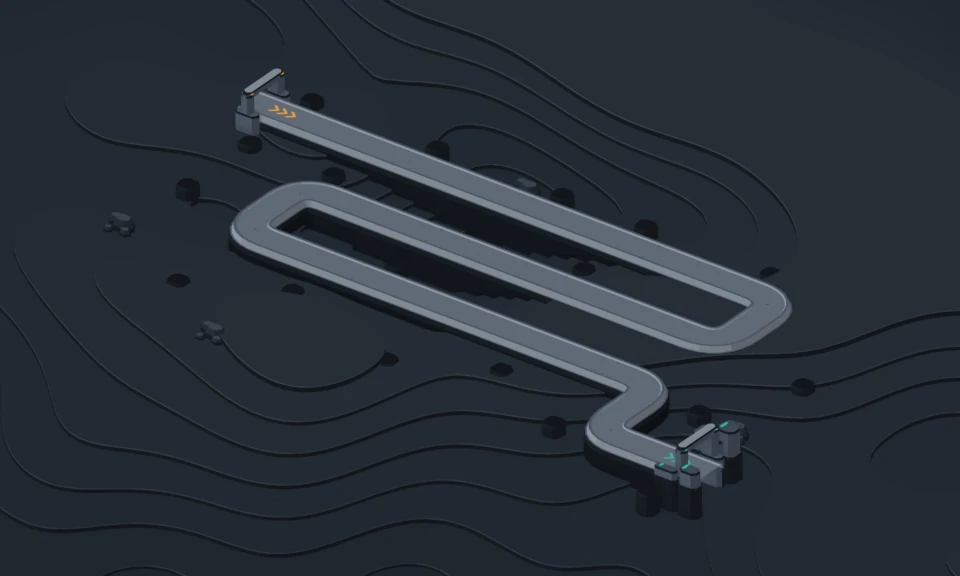
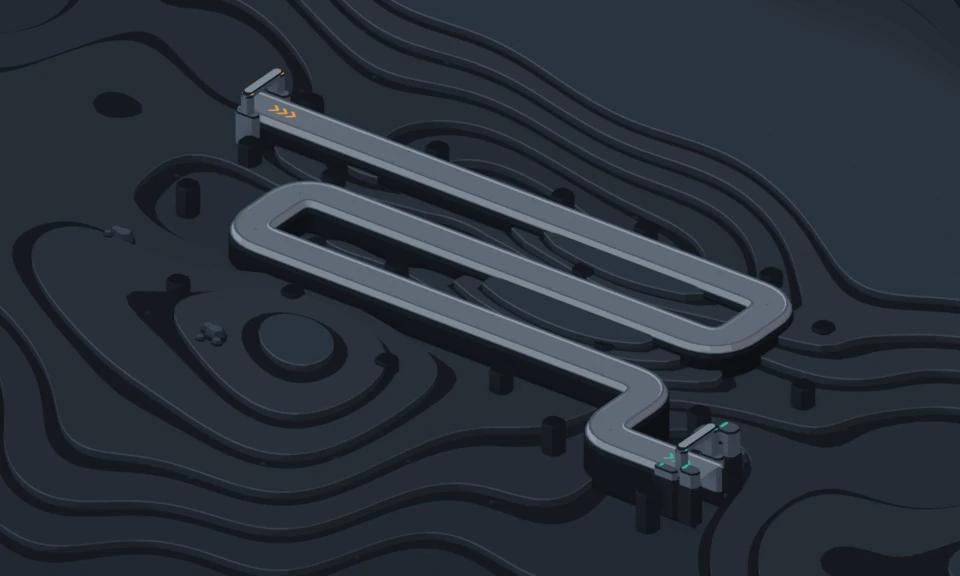
초원 고원 전장을 확대하고 지형 단차와 팝오버 좌표를 보완한다

diff --git a/src/ui/game/GameScreen.tsx b/src/ui/game/GameScreen.tsx
@@ -10,6 +10,7 @@ import type { Notice } from '../../application/view';
 import { relicBalance } from '../../domain/relics';
 import { buildCost } from '../../domain/towers';
 import { FieldBridgeHandle, type FieldDrag, type FieldSelection, type FieldTap, type FieldView } from '../../game/bridge';
+import { r6Overview } from '../../game/r6/mapProjection';
 import { PhaserBattlefield } from '../../game/PhaserBattlefield';
 import type { FontScale } from '../../application/session';
 import { DEFAULTS } from '../../content';
@@ -26,7 +27,7 @@ import { R6WaveForecast, Remaining, WaveForecast } from './ContextCard';
 import { EvolveCard } from './EvolveCard';
 import { evolutionChoices, previewForm, previewMarker, towerForm, undoBuildCommand, upgradeCommand, upgradeCost, type FormId } from './evolution';
 import { FieldOverlay, TowerTools, type FieldFlash } from './FieldOverlay';
-import { FULL_VIEW, WORLD_CELL } from './fieldGeometry';
+import { FULL_VIEW, toScreenPoint, WORLD_CELL } from './fieldGeometry';
 import { COACH_TEXT, currentCoach, markCoachDone, readCoachDone } from './firstRunCoach';
 import { NEXT_FOES } from './gameCopy';
 import css from './GameScreen.module.css';
@@ -134,11 +135,11 @@ export function GameScreen({
     const fieldPoint = (wx: number, wy: number) => {
       const box = fieldRef.current?.getBoundingClientRect();
       if (!box || box.width === 0) return null;
-      const v = cameraRef.current;
+      const p = toScreenPoint(cameraRef.current, box.width, box.height, wx, wy);
       const clamp = (n: number, lo: number, hi: number) => Math.min(hi, Math.max(lo, n));
       return {
-        x: clamp(box.left + ((wx - v.x) / v.width) * box.width, box.left, box.right),
-        y: clamp(box.top + ((wy - v.y) / v.height) * box.height, box.top, box.bottom),
+        x: clamp(box.left + p.x, box.left, box.right),
+        y: clamp(box.top + p.y, box.top, box.bottom),
       };
     };
     const gateCell = controller.ctx.map.pathCells[controller.ctx.map.pathCells.length - 1]!;
@@ -174,6 +175,15 @@ export function GameScreen({
   useEffect(() => { sound.setPaused(view.pause.length > 0 || view.phase === 'GAME_OVER'); }, [sound, view.pause.length, view.phase]);
 
   const layout = useLayout();
+  const r6Plateau = r6 && map.id === 'garden_u';
+  const shortLandscape = r6Plateau && layout.portraitHint;
+  const boardAspect = r6Overview.width / r6Overview.height;
+  const stackedHeight = r6Plateau && layout.mode === 'S' ? Math.ceil(layout.mapW / boardAspect) : layout.mapH;
+  // 가로 화면에서 HUD·회전 안내·바깥 여백에 120px을 두고 전장 높이를 맞춘다.
+  const mapH = shortLandscape
+    ? Math.min(stackedHeight, Math.max(96, Math.floor((window.visualViewport?.height ?? window.innerHeight) - 120)))
+    : stackedHeight;
+  const mapW = r6Plateau ? Math.min(layout.mapW, Math.ceil(mapH * boardAspect)) : layout.mapW;
   const [rawSelection, setSelection] = useState<FieldSelection>(EMPTY);
   const [evolveOpen, setEvolveOpen] = useState(false);
   const [icons, setIcons] = useState<Record<string, string>>({});
@@ -211,7 +221,7 @@ export function GameScreen({
   /** 먼저 골라 둔 타워: 빈 자리를 누르면 바로 설치한다. */
   const armed = selection.slotId === null && selection.towerId === null ? selection.previewType : null;
   const hasSelection = selection.slotId !== null || selection.towerId !== null;
-  const magnify = layout.cell < layout.magnifyBelow && hasSelection && !dragging;
+  const magnify = (r6Plateau ? mapW / 15 : layout.cell) < layout.magnifyBelow && hasSelection && !dragging;
   const trading = view.phase === 'BUILD' || view.phase === 'BATTLE';
   const lock = view.phase === 'PREP_QUIZ' ? '준비 문제를 먼저 풀어 주세요' : view.phase === 'WAVE_WRAPUP' ? '다음 웨이브 준비 중이에요' : null;
   // 가진 타워(새 타워로 늘어난다). 타워 칸·설치 메뉴·자리 목록은 이 타워만 보인다(엔진은 그 밖 설치를 NOT_OWNED로 막는다).
@@ -513,7 +523,7 @@ export function GameScreen({
   const canHitAir = (type: TowerId) => recruitCardInfo(b, type).air === true;
   const warning = forecast ? forecastWarning(b, forecast, canHitAir, towers, view.towers) : null;
   const remaining = view.phase === 'BATTLE' ? st.enemies.length + (st.battle ? Math.max(0, st.battle.spawnList.length - st.battle.spawnIndex) : 0) : 0;
-  const tools = r6 && selectedTower && !evolveOpen ? (
+  const tools = r6 && !camera.projected && selectedTower && !evolveOpen ? (
     <TowerTools key={selectedTower.id} tower={selectedTower} balance={b} gold={view.gold} dock
       onUpgrade={onUpgrade} onEvolve={onEvolve} onSell={onSell} onUndo={onUndo} />
   ) : null;
@@ -674,12 +684,12 @@ export function GameScreen({
     <div
       ref={fieldRef}
       className={`${css.field} ${layout.fieldBleed ? css.bleed : ''}`}
-      style={{ width: layout.mapW, height: layout.mapH, ...(layout.fieldBleed ? { marginInline: -layout.pad } : {}) }}
+      style={{ width: mapW, height: mapH, ...(layout.fieldBleed ? { marginInline: -layout.pad } : {}) }}
     >
       <PhaserBattlefield
         bridge={bridge}
-        width={layout.mapW}
-        height={layout.mapH}
+        width={mapW}
+        height={mapH}
         label={`전장: 웨이브 ${view.wave}, 성문 ${view.gateHp}/${view.gateMaxHp}, 타워 ${view.towers.length}개`}
         hintId="field-keys"
         onKeyDown={onFieldKey}
@@ -696,12 +706,12 @@ export function GameScreen({
           built={view.towers}
           gold={view.gold}
           icons={icons}
-          boxW={layout.mapW}
-          boxH={layout.mapH}
+          boxW={mapW}
+          boxH={mapH}
           camera={camera}
           slotId={trading || selection.slotId === null ? selection.slotId : null}
           // 진화 창이 열리면 도구 묶음은 닫는다(창 뒤에 겹쳐 보이지 않게).
-          tower={evolveOpen || r6 ? null : selectedTower}
+          tower={evolveOpen || (r6 && !camera.projected) ? null : selectedTower}
           flash={flash}
           pillar={pillar}
           onPillarDone={id => setPillar(p => (p?.id === id ? null : p))}
@@ -743,8 +753,8 @@ export function GameScreen({
   const mainStyle: CSSProperties = layout.mode === 'R'
     ? ({
         padding: layout.pad,
-        '--map-w': `${layout.mapW}px`,
-        '--map-h': `${layout.mapH}px`,
+        '--map-w': `${mapW}px`,
+        '--map-h': `${mapH}px`,
         '--rail-w': `${layout.railW}px`,
         '--q-h': `${layout.q}px`,
       } as CSSProperties)

diff --git a/src/game/BattleScene.ts b/src/game/BattleScene.ts
@@ -17,7 +17,7 @@ import { DEPTH, fieldPosition, type LayerContext } from './layers/shared';
 import { TowerLayer } from './layers/TowerLayer';
 import { R6BattleAssets, R6_GROUND_KEY } from './r6/BattleAssets';
 import { isR6Battlefield } from './r6/manifest';
-import { projectField, R6_MAP_SCALE } from './r6/mapProjection';
+import { projectField, r6Overview, R6_MAP_SCALE } from './r6/mapProjection';
 
 /**
  * 전장 장면: 층(지면·타워·적·효과·입력/선택 표시)을 만들고 카메라·미니맵과 사건 전달만 맡는다.
@@ -104,7 +104,8 @@ export class BattleScene extends Phaser.Scene {
     const cam = this.cameras.main;
     const w = this.scale.width, h = this.scale.height;
     cam.setViewport(0, 0, w, h);
-    const fit = Math.min(w / WORLD_W, h / WORLD_H);
+    const frame = this.layerContext.projected ? r6Overview : { x: 0, y: 0, width: WORLD_W, height: WORLD_H };
+    const fit = Math.min(w / frame.width, h / frame.height);
     this.cssCell = (fit * CELL_PX * (this.layerContext.projected ? R6_MAP_SCALE : 1)) / Math.max(1, window.devicePixelRatio || 1);
     const sel = selectedCell(this.bridge);
     if (this.bridge.magnify && sel) {
@@ -113,15 +114,15 @@ export class BattleScene extends Phaser.Scene {
       const x = (sel.x + 0.5) * CELL_PX, y = (sel.y + 0.5) * CELL_PX;
       const point = this.layerContext.projected ? projectField(x, y) : { x, y };
       cam.centerOn(point.x, point.y);
-      this.showMini(w);
+      this.showMini(w, frame);
     } else {
       cam.setZoom(fit);
-      cam.centerOn(WORLD_W / 2, WORLD_H / 2);
+      cam.centerOn(frame.x + frame.width / 2, frame.y + frame.height / 2);
       this.hideMini();
     }
   }
 
-  private showMini(canvasW: number) {
+  private showMini(canvasW: number, frame: { x: number; y: number; width: number; height: number }) {
     const dpr = Math.max(1, window.devicePixelRatio || 1);
     const mw = Math.round(90 * dpr), mh = Math.round(54 * dpr), pad = Math.round(6 * dpr);
     if (!this.miniCam) {
@@ -129,7 +130,9 @@ export class BattleScene extends Phaser.Scene {
       this.miniCam.setBackgroundColor('rgba(58,41,30,0.85)');
       this.miniCam.ignore([this.enemyLayer.hpBars, this.effects.callouts]);
     }
-    this.miniCam.setViewport(canvasW - mw - pad, pad, mw, mh).setZoom(mw / WORLD_W).centerOn(WORLD_W / 2, WORLD_H / 2);
+    const fit = Math.min(mw / frame.width, mh / frame.height);
+    this.miniCam.setViewport(canvasW - mw - pad, pad, mw, mh).setZoom(fit)
+      .centerOn(frame.x + frame.width / 2, frame.y + frame.height / 2);
     this.miniCam.setVisible(true);
   }
 

diff --git a/src/ui/game/fieldGeometry.ts b/src/ui/game/fieldGeometry.ts
@@ -1,5 +1,6 @@
 import type { MapConfig } from '../../contracts/maps';
 import type { FieldView } from '../../game/bridge';
+import { projectField, r6Pad, R6_MAP_SQUASH, unprojectField } from '../../game/r6/mapProjection';
 
 // 전장 DOM 겹층의 좌표 계산. 세계 좌표(칸 64px)와 화면 CSS px 사이를 카메라가 알려 준 보이는 영역으로 바꾼다.
 type Slot = MapConfig['slots'][number];
@@ -11,17 +12,31 @@ export const WORLD_ROWS = 9;
 /** 카메라 알림이 오기 전에는 전장 전체가 보인다고 본다. */
 export const FULL_VIEW: FieldView = { x: 0, y: 0, width: WORLD_COLS * WORLD_CELL, height: WORLD_ROWS * WORLD_CELL };
 
-export interface CellRect { left: number; top: number; size: number }
+export interface CellRect { left: number; top: number; size: number; height: number }
 
 /** 칸(x, y)이 화면(전장 상자 안 CSS px)에서 차지하는 사각형. */
 export function cellRect(view: FieldView, boxW: number, boxH: number, x: number, y: number): CellRect {
   const sx = boxW / view.width, sy = boxH / view.height;
-  return { left: (x * WORLD_CELL - view.x) * sx, top: (y * WORLD_CELL - view.y) * sy, size: WORLD_CELL * Math.min(sx, sy) };
+  if (view.projected) {
+    const center = toScreenPoint(view, boxW, boxH, (x + 0.5) * WORLD_CELL, (y + 0.5) * WORLD_CELL);
+    const size = r6Pad.radius * 2 * sx;
+    const height = r6Pad.radius * 2 * R6_MAP_SQUASH * sy;
+    return { left: center.x - size / 2, top: center.y - height / 2, size, height };
+  }
+  const size = WORLD_CELL * Math.min(sx, sy);
+  return { left: (x * WORLD_CELL - view.x) * sx, top: (y * WORLD_CELL - view.y) * sy, size, height: size };
 }
 
-/** 전장 상자 안 CSS px → 세계 px. */
+/** 격자 px → 전장 상자 안 CSS px. */
+export function toScreenPoint(view: FieldView, boxW: number, boxH: number, x: number, y: number) {
+  const p = view.projected ? projectField(x, y) : { x, y };
+  return { x: (p.x - view.x) * boxW / view.width, y: (p.y - view.y) * boxH / view.height };
+}
+
+/** 전장 상자 안 CSS px → 격자 px. */
 export function toWorldPoint(view: FieldView, boxW: number, boxH: number, px: number, py: number) {
-  return { x: view.x + (px / boxW) * view.width, y: view.y + (py / boxH) * view.height };
+  const x = view.x + (px / boxW) * view.width, y = view.y + (py / boxH) * view.height;
+  return view.projected ? unprojectField(x, y) : { x, y };
 }
 
 /**

diff --git a/tests/unit/r6-map-projection.test.ts b/tests/unit/r6-map-projection.test.ts
@@ -1,5 +1,6 @@
 import { describe, expect, it } from 'vitest';
 import { projectField, projectFieldDelta, unprojectField } from '../../src/game/r6/mapProjection';
+import { cellRect, snapSlot, toWorldPoint } from '../../src/ui/game/fieldGeometry';
 import maps from '../../docs/contracts/maps.candidate.v0.4.json';
 
 const garden = maps.maps.find(map => map.id === 'garden_u')!;
@@ -37,5 +38,19 @@ describe('초원 고원 3/4 투영', () => {
     expect(east.y).toBeGreaterThan(15);
     expect(south.x).toBeLessThan(-30);
     expect(south.y).toBeGreaterThan(20);
+  });
+
+  it('확대와 CSS 축소가 있는 화면에서 팝오버 기준점과 끌어 놓기가 같은 설치대를 가리킨다', () => {
+    const camera = { projected: true, x: 165, y: 90, width: 456, height: 273.6 };
+    const cssWidth = 380, cssHeight = 228;
+    const slot = garden.slots.find(s => s.id === 'garden_u-s12')!;
+    const expected = projectField((slot.x + 0.5) * 64, (slot.y + 0.5) * 64);
+    const padX = (expected.x - camera.x) * cssWidth / camera.width;
+    const padY = (expected.y - camera.y) * cssHeight / camera.height;
+    const rect = cellRect(camera, cssWidth, cssHeight, slot.x, slot.y);
+    expect(rect.left + rect.size / 2).toBeCloseTo(padX);
+    expect(rect.top + rect.height / 2).toBeCloseTo(padY);
+    const grid = toWorldPoint(camera, cssWidth, cssHeight, padX, padY);
+    expect(snapSlot(garden.slots, new Set(), grid.x, grid.y)).toBe(slot.id);
   });
 });

diff --git a/src/ui/game/FieldOverlay.tsx b/src/ui/game/FieldOverlay.tsx
@@ -253,11 +253,11 @@ function Anchored({
     const el = ref.current;
     if (!el) return;
     const w = el.offsetWidth, h = el.offsetHeight;
-    const midX = cell.left + cell.size / 2 - w / 2, midY = cell.top + cell.size / 2 - h / 2;
+    const midX = cell.left + cell.size / 2 - w / 2, midY = cell.top + cell.height / 2 - h / 2;
     const sides = {
       right: { left: cell.left + cell.size + gap, top: midY },
       left: { left: cell.left - w - gap, top: midY },
-      below: { left: midX, top: cell.top + cell.size + gap },
+      below: { left: midX, top: cell.top + cell.height + gap },
       above: { left: midX, top: cell.top - h - gap },
     };
     // 칸을 가리지 않는 쪽 중 전장 안에 들어가고 고정 안내 요소(전체 지도·하단 쪽지)와 겹치지 않는 첫 자리.
@@ -276,7 +276,7 @@ function Anchored({
     const minTop = avoidTopLeft && left < 128 ? Math.min(maxTop, 56) : 4;
     const top = Math.max(minTop, Math.min(maxTop, pick.top));
     setPos(prev => (prev && prev.left === left && prev.top === top ? prev : { left, top }));
-  }, [cell.left, cell.top, cell.size, boxW, boxH, place, avoidTopLeft, avoidBottom]);
+  }, [cell.left, cell.top, cell.size, cell.height, boxW, boxH, place, avoidTopLeft, avoidBottom]);
   return (
     <div
       ref={ref}

diff --git a/src/game/r6/mapProjection.ts b/src/game/r6/mapProjection.ts
@@ -8,6 +8,7 @@ const rightX = -rayY / horizontal, rightY = rayX / horizontal;
 export const R6_MAP_SQUASH = rayZ / Math.hypot(horizontal, rayZ);
 export const R6_MAP_SCALE = spec.pixelsPerCell / 64;
 export const r6Pad = { radius: spec.padRadius * spec.pixelsPerCell, size: spec.padSize, pivot: spec.padPivot };
+export const r6Overview = spec.overview;
 
 /** 전투 격자 px의 벡터를 직교 카메라의 화면 축으로 옮긴다. */
 export function projectFieldDelta(x: number, y: number): Point {

diff --git a/tools/r6/map/scene.py b/tools/r6/map/scene.py
@@ -19,15 +19,17 @@ MAPS = json.loads((ROOT / "docs/contracts/maps.candidate.v0.4.json").read_text()
 PLATEAU = next(m for m in MAPS if m["id"] == "garden_u")
 PALETTE = {"carbon": (18, 22, 27), "slate": (29, 36, 44), "line": (74, 85, 99),
            "silver": (184, 192, 200), "amber": (230, 159, 36), "teal": (47, 181, 163)}
-RIDGES = ((1.1, 1.9, 3.9, 2.3, 44), (10.7, 3.5, 4.6, 3.3, 61),
-          (5.2, 7.5, 6.1, 3.4, 52), (6.0, 3.5, 2.4, 2.6, -41),
+RIDGES = ((1.1, 1.9, 3.9, 2.3, 24), (10.7, 3.5, 4.6, 3.3, 25),
+          (5.2, 7.5, 6.1, 3.4, 46), (6.0, 3.5, 2.4, 2.6, -30),
+          (6.9, 2.04, 4.6, .68, 57), (7.7, 4.06, 4.3, .75, 52),
           (-5.2, 7.0, 5.1, 8.3, 41), (14.9, -1.4, 5.3, 3.9, 48),
           (1.0, -5.6, 7.4, 3.9, 76), (10.7, -4.7, 7.2, 3.7, 64),
           (5.7, 11.2, 4.4, 4.3, 31), (20.8, 7.4, 5.4, 5.7, 43))
 CLUSTERS = ((5.45, .25), (14.35, 5.5), (4.25, 8.75), (.3, 6.4))
 STEP = .25
 LEVELS = (12, 22, 32, 42, 52, 62, 72, 82)
-TREADS = (-.91, -.85, -.77, -.66, -.56, -.45, -.34, -.24, -.11)
+TREADS = (-1.52, -1.38, -1.22, -1.04, -.84, -.65, -.46, -.27, -.09)
+SHADOW_BAND = 2.2
 WORLD = (960, 576)
 PPC = SPEC["pixelsPerCell"]
 RIGHT = Vector((0, 0, 1)).cross(CAMERA_RAY).normalized()
@@ -131,6 +133,10 @@ def terrain(mesh):
                     if len(section) < 3:
                         continue
                     mesh.face([xyz(x, y, TREADS[level]) for x, y, _ in section], f"land{level}")
+                    if level < len(LEVELS) and upper >= hi - SHADOW_BAND:
+                        # 한 단 아래의 등고선을 따라 좁은 그림자를 굽는다.
+                        shadow = clip(section, hi - SHADOW_BAND, True)
+                        mesh.face([xyz(x, y, TREADS[level] + .002) for x, y, _ in shadow], "ledge_shadow")
                     if level == 0:
                         continue
                     for p, q in zip(section, (*section[1:], section[0])):
@@ -139,9 +145,9 @@ def terrain(mesh):
                         x, y = p[:2]
                         u, v = q[:2]
                         z = TREADS[level]
-                        mesh.face([xyz(u, v, z), xyz(x, y, z), xyz(x, y, z - .025), xyz(u, v, z - .025)], f"lip{level}")
-                        mesh.face([xyz(u, v, z - .025), xyz(x, y, z - .025), xyz(x, y, TREADS[level - 1]),
-                                   xyz(u, v, TREADS[level - 1])], "cliff")
+                        mesh.face([xyz(u, v, z), xyz(x, y, z), xyz(x, y, z - .035), xyz(u, v, z - .035)], f"lip{level}")
+                        mesh.face([xyz(u, v, z - .035), xyz(x, y, z - .035), xyz(x, y, TREADS[level - 1]),
+                                   xyz(u, v, TREADS[level - 1])], "riser")
     mesh.finish("초원 고원 · 등고선 층계")
 
 
@@ -183,11 +189,11 @@ def ribbon(mesh, nodes, rings):
 
 def road(mesh):
     nodes = route()
-    cross_section = [(-.46, -.81, ""), (-.46, -.20, "carbon"), (-.431, -.10, "cliff"),
+    cross_section = [(-.46, TREADS[0], ""), (-.46, -.20, "carbon"), (-.431, -.10, "cliff"),
                      (-.399, -.10, "line"), (-.366, .026, "curb"), (-.315, .026, "line"),
                      (-.29, 0, "curb"), (.29, 0, "road"), (.315, .026, "curb"),
                      (.366, .026, "line"), (.399, -.10, "curb"), (.431, -.10, "line"),
-                     (.46, -.20, "cliff"), (.46, -.81, "carbon")]
+                     (.46, -.20, "cliff"), (.46, TREADS[0], "carbon")]
     ribbon(mesh, nodes, cross_section)
     for a, b, c in zip(PLATEAU["pathCells"], PLATEAU["pathCells"][1:], PLATEAU["pathCells"][2:]):
         if (b[0] - a[0], b[1] - a[1]) != (c[0] - b[0], c[1] - b[1]) or sum(b) % 3:
@@ -292,10 +298,11 @@ def render(out):
     colors = dict(PALETTE, cliff=blend("carbon", "slate", .48), curb=blend("line", "silver", .49),
                   road=blend("line", "silver", .19), joint=blend("slate", "line", .77),
                   pad=blend("slate", "line", .57), active_pad=blend("slate", "amber", .14),
-                  rock=blend("slate", "line", .62), survey=blend("carbon", "line", .35))
+                  rock=blend("slate", "line", .62), survey=blend("carbon", "line", .35),
+                  riser=blend("slate", "line", .15), ledge_shadow=blend("carbon", "slate", .23))
     for i in range(len(TREADS)):
-        colors[f"land{i}"] = blend("slate", "line", i * .025)
-        colors[f"lip{i}"] = blend("slate", "line", .49 + i * .035)
+        colors[f"land{i}"] = blend("slate", "line", i * .040)
+        colors[f"lip{i}"] = blend("slate", "line", .61 + i * .035)
 
     board = scene(*WORLD, (7.5, -4.5, 0), SPEC["center"])
     materials = toon_materials(colors, linear)
@@ -309,7 +316,7 @@ def render(out):
     # 받침 지주는 배경에 굽고, 윗부분은 상태별 스프라이트로 놓는다.
     supports = Mesh(materials)
     for slot in PLATEAU["slots"]:
-        bevel_box(supports, slot["x"] + .5, slot["y"] + .5, .42, .42, -.92, -.18, "carbon", "cliff")
+        bevel_box(supports, slot["x"] + .5, slot["y"] + .5, .42, .42, TREADS[0], -.18, "carbon", "cliff")
     supports.finish("설치대 지주")
     board.render.filepath = str(out / "meadow-plateau.png")
     bpy.ops.render.render(write_still=True)

diff --git a/docs/renewal/r6/map-spec.md b/docs/renewal/r6/map-spec.md
@@ -9,8 +9,8 @@
 | 게임 맵 ID | `garden_u`. 게임은 기존 [맵 계약](../../contracts/maps.candidate.v0.4.json)의 좌표를 쓴다. |
 | 격자 | 15열 × 9행, 칸당 64 논리 px. 칸 중심은 `((x + 0.5) × 64, (y + 0.5) × 64)`다. 전투 판정에서 1칸은 1,000 milli-cell이다. |
 | 길과 설치대 | 길 중심 41칸, 입구 (0, 1), 성문 (14, 7), 설치대 20개. 길 표면과 설치대 윗면을 3D 높이 0에 맞춘다. |
-| 카메라 | 곡사 포대와 같은 직교 카메라. X·Y·Z 방향은 `(6.1, −8.2, 6.05)`다. 높이 0에서 1칸은 화면 오른쪽 축으로 52px, 깊이 축으로 약 26.51px에 해당한다. 배경의 크기는 960 × 576px이다. |
-| 고도 | 칸의 1/4 간격으로 가상 고도를 샘플링한다. 12m부터 82m까지 10m 간격으로 삼각형을 잘라 각 단계의 수평면과 수직 턱을 만든다. 고도는 지면 그림에만 쓴다. |
+| 카메라 | 곡사 포대와 같은 직교 카메라. X·Y·Z 방향은 `(6.1, −8.2, 6.05)`다. 높이 0에서 1칸은 렌더의 화면 오른쪽 축으로 52px, 깊이 축으로 약 26.51px에 해당한다. 960 × 576px 배경에서 길·설치대를 담은 `overview` 영역을 균일 배율로 맞춘다. 미니맵도 같은 영역을 중심으로 한다. |
+| 고도 | 칸의 1/4 간격으로 가상 고도를 샘플링한다. 12m부터 82m까지 10m 간격으로 삼각형을 잘라 수평면과 수직 턱을 만들고, 그 아래 등고선에 좁은 그림자를 굽는다. 구불길 사이의 두 능선은 주변보다 높고 길과 설치대 윗면은 높이 0이다. |
 
 [투영 설정](../../../src/game/r6/mapProjection.json)을 Blender와 Phaser가 함께 읽는다. Phaser는 `projectField`로 격자 px를 캔버스 월드 px에 놓고 `unprojectField`로 되돌린다. 적 이동, 타워의 몸체 피벗, 효과, 클릭·호버, 사거리 타원과 확대 중심에 이 변환을 쓴다. 공격 범위, 경로 보간과 좌표는 기존 격자에서 계산한다.
 
@@ -59,8 +59,10 @@ Phaser는 밸런스 `2.0.0`에서 `public/assets/r6/manifest-v2.json`을 읽고 
 
 ## React 전장 연결
 
-`FieldView.projected`가 참이면 카메라 좌표는 투영 후의 월드 px다. React에서 칸 옆 도구와 보상 효과의 화면 위치를 계산할 때 `projectField`를 적용하고, 끌어 놓기의 포인터를 격자에서 판정할 때 `unprojectField`를 적용한다. React 연결과 미리보기 그림 교체는 UI 담당 작업이다.
+`FieldView.projected`가 참이면 카메라 좌표는 투영 후의 월드 px다. React는 설치 메뉴·타워 도구·보상 효과를 `projectField`로 화면에 놓고, 끌어 놓기의 포인터를 `unprojectField`로 격자에 되돌린다. 가로로 돌린 휴대폰은 상단 HUD와 안내 아래에서 전장을 한 화면에 맞춘다.
 
 ## 프로토타입 측정
 
-배경 WebP는 **20,966B**, 설치대 시트는 **2,610B**다. Chromium 156.0.8078.4의 ANGLE SwiftShader에서 CPU 4배 감속으로 첫 웨이브를 5초간 그린 결과 평균 **58.81 FPS**, p95 프레임 간격 **16.8ms**였다(295프레임). 전장에는 실제로 동작하는 레일 포탑 한 기와 검수용으로 올린 곡사 포대 원화 세 기가 들어 있다. [전장 시험](../../../tests/e2e/r6-battlefield.spec.ts)에서 레일 포탑의 발과 설치대 피벗 일치, 선택 프레임, Spine 보행과 이전 밸런스 전장도 확인한다. 실기기 크롬북 측정은 별도로 남아 있다.
+배경 WebP는 **26,052B**, 설치대 시트는 **2,610B**다. 전장 점유율은 전투 화면의 캔버스를 기준으로 길과 설치대를 둘러싼 사각형의 가로·세로 비율을 잰다. 최외곽 설치대의 반투명 가장자리는 알파 50%부터 포함한다.
+
+Chromium 156.0.8078.4의 ANGLE SwiftShader에서 CPU 4배 감속으로 첫 웨이브를 5초간 그린 결과 평균 **58.81 FPS**, p95 프레임 간격 **16.7ms**였다(295프레임). 전장에는 실제로 동작하는 레일 포탑 한 기와 검수용으로 올린 곡사 포대 원화 세 기가 들어 있다. [전장 시험](../../../tests/e2e/r6-battlefield.spec.ts)에서 레일 포탑의 발과 설치대 피벗 일치, 선택 프레임, Spine 보행과 이전 밸런스 전장도 확인한다. 실기기 크롬북 측정은 별도로 남아 있다.
